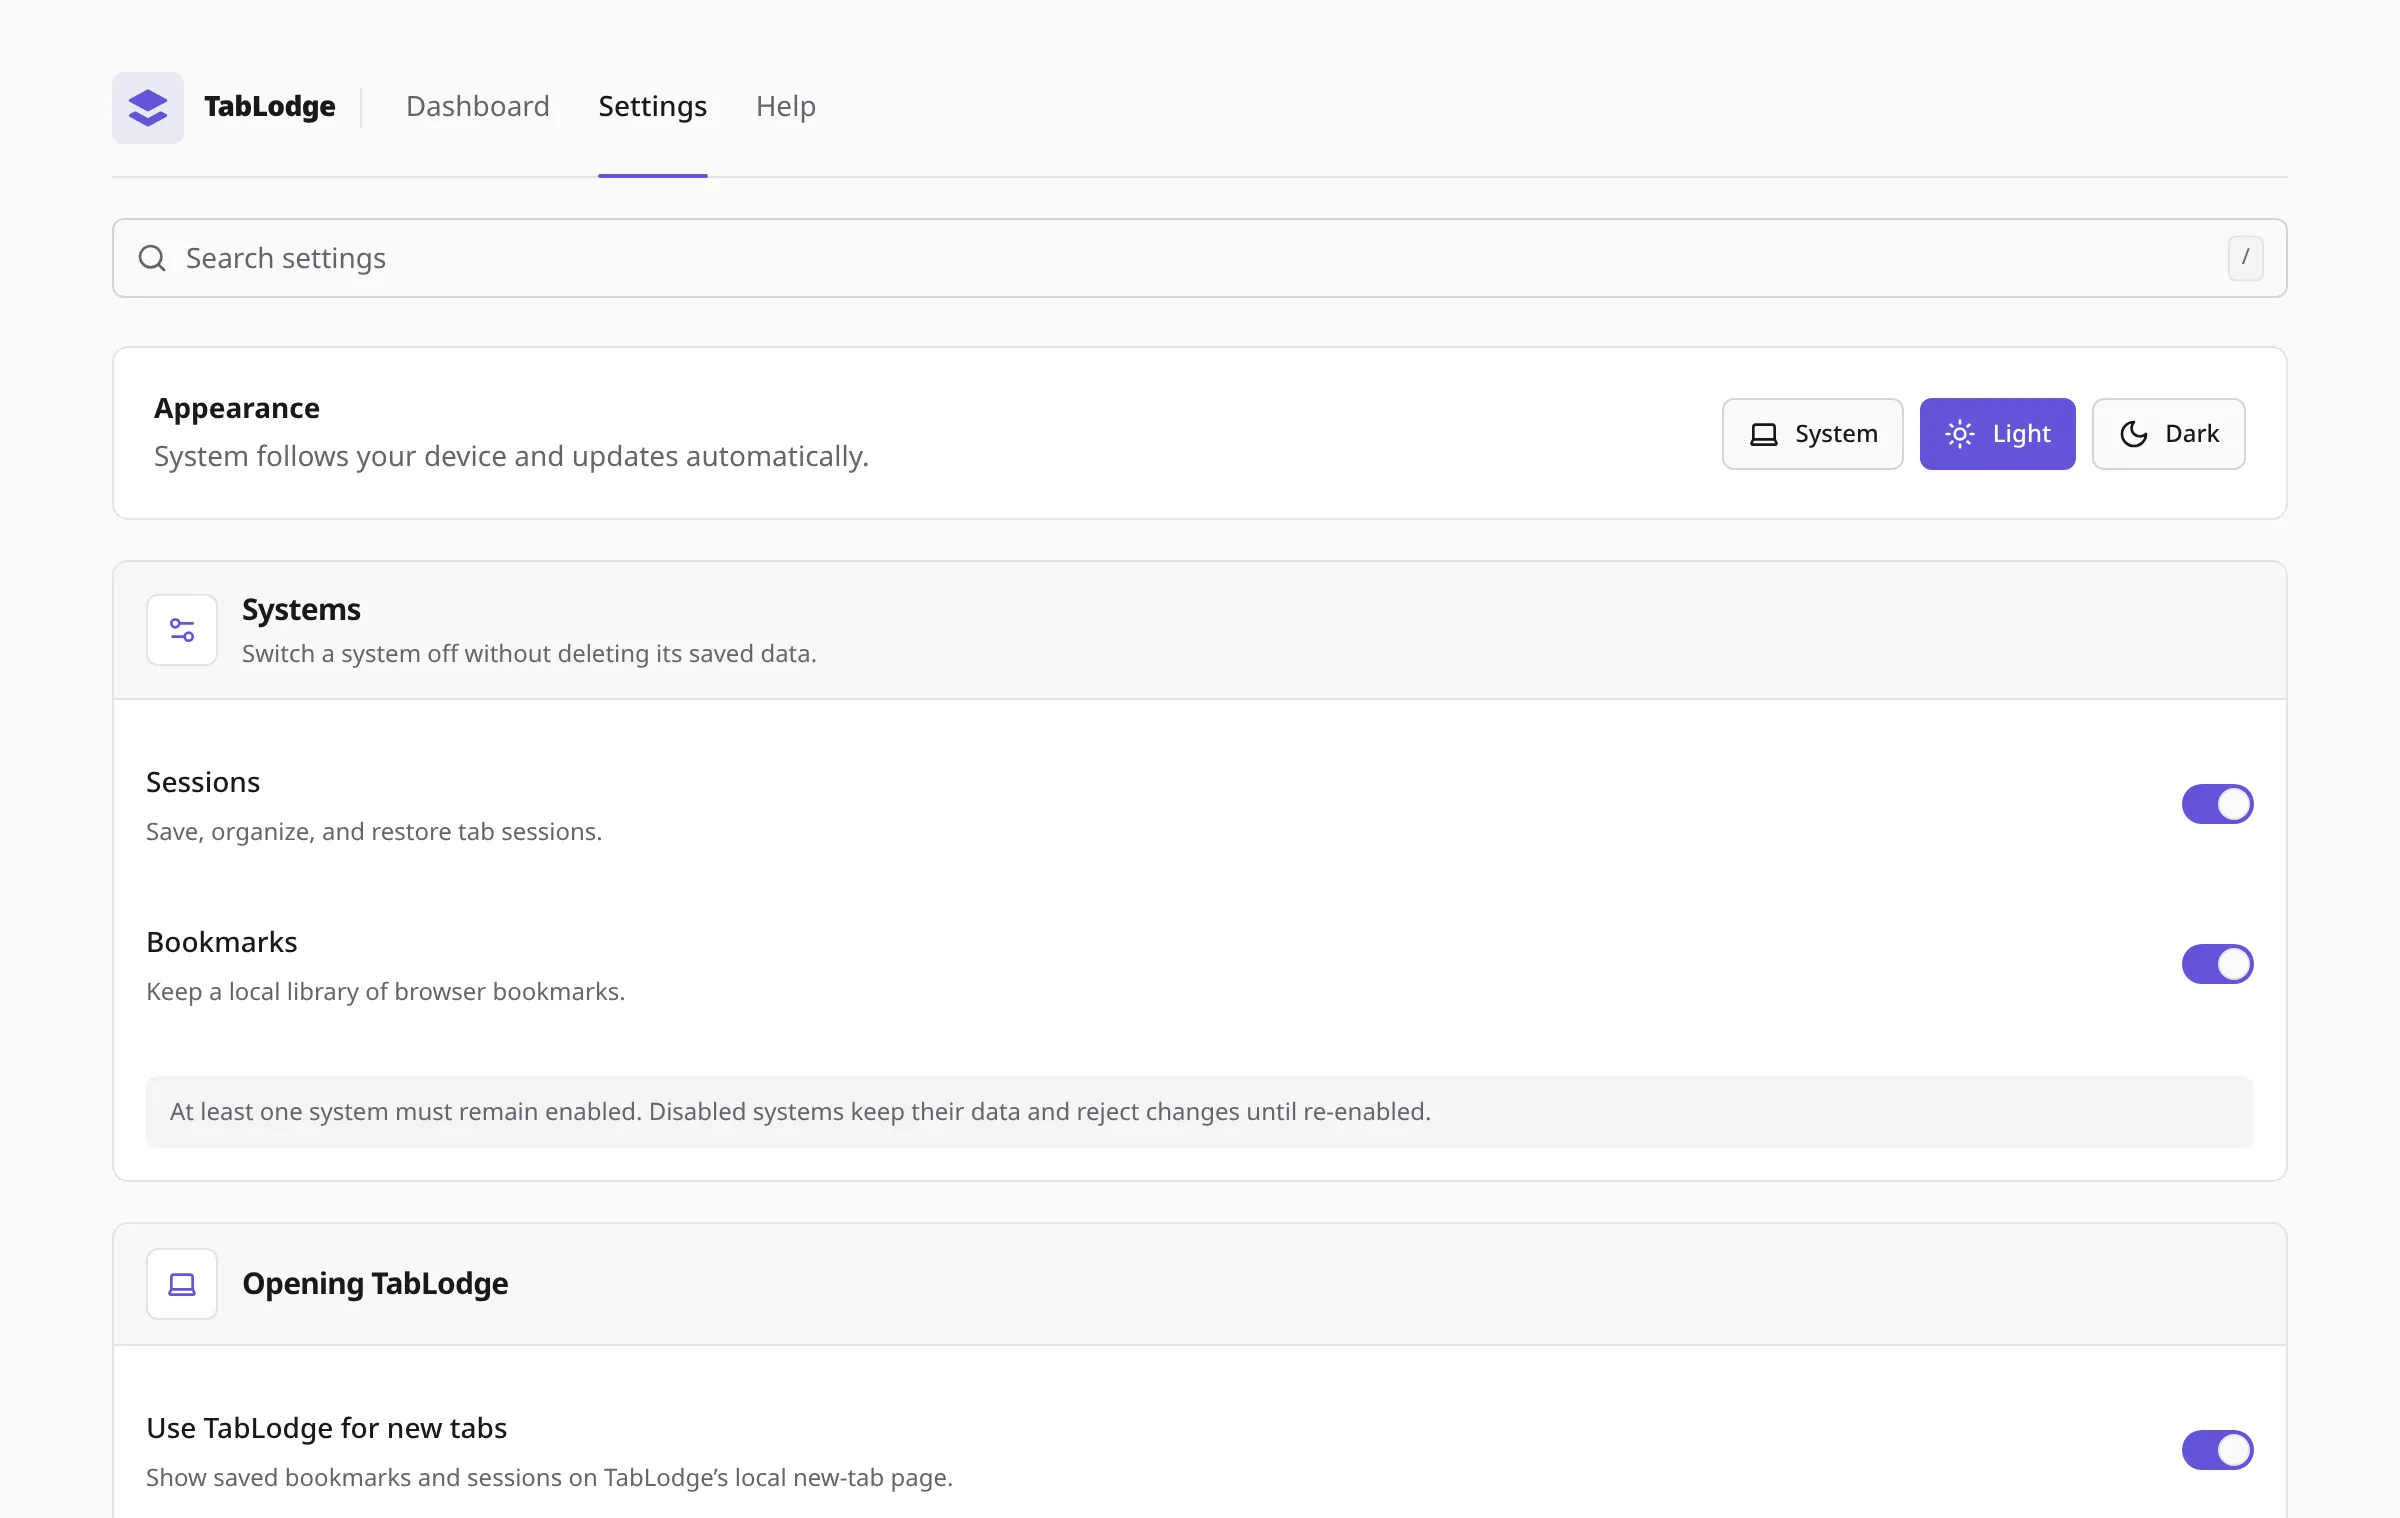
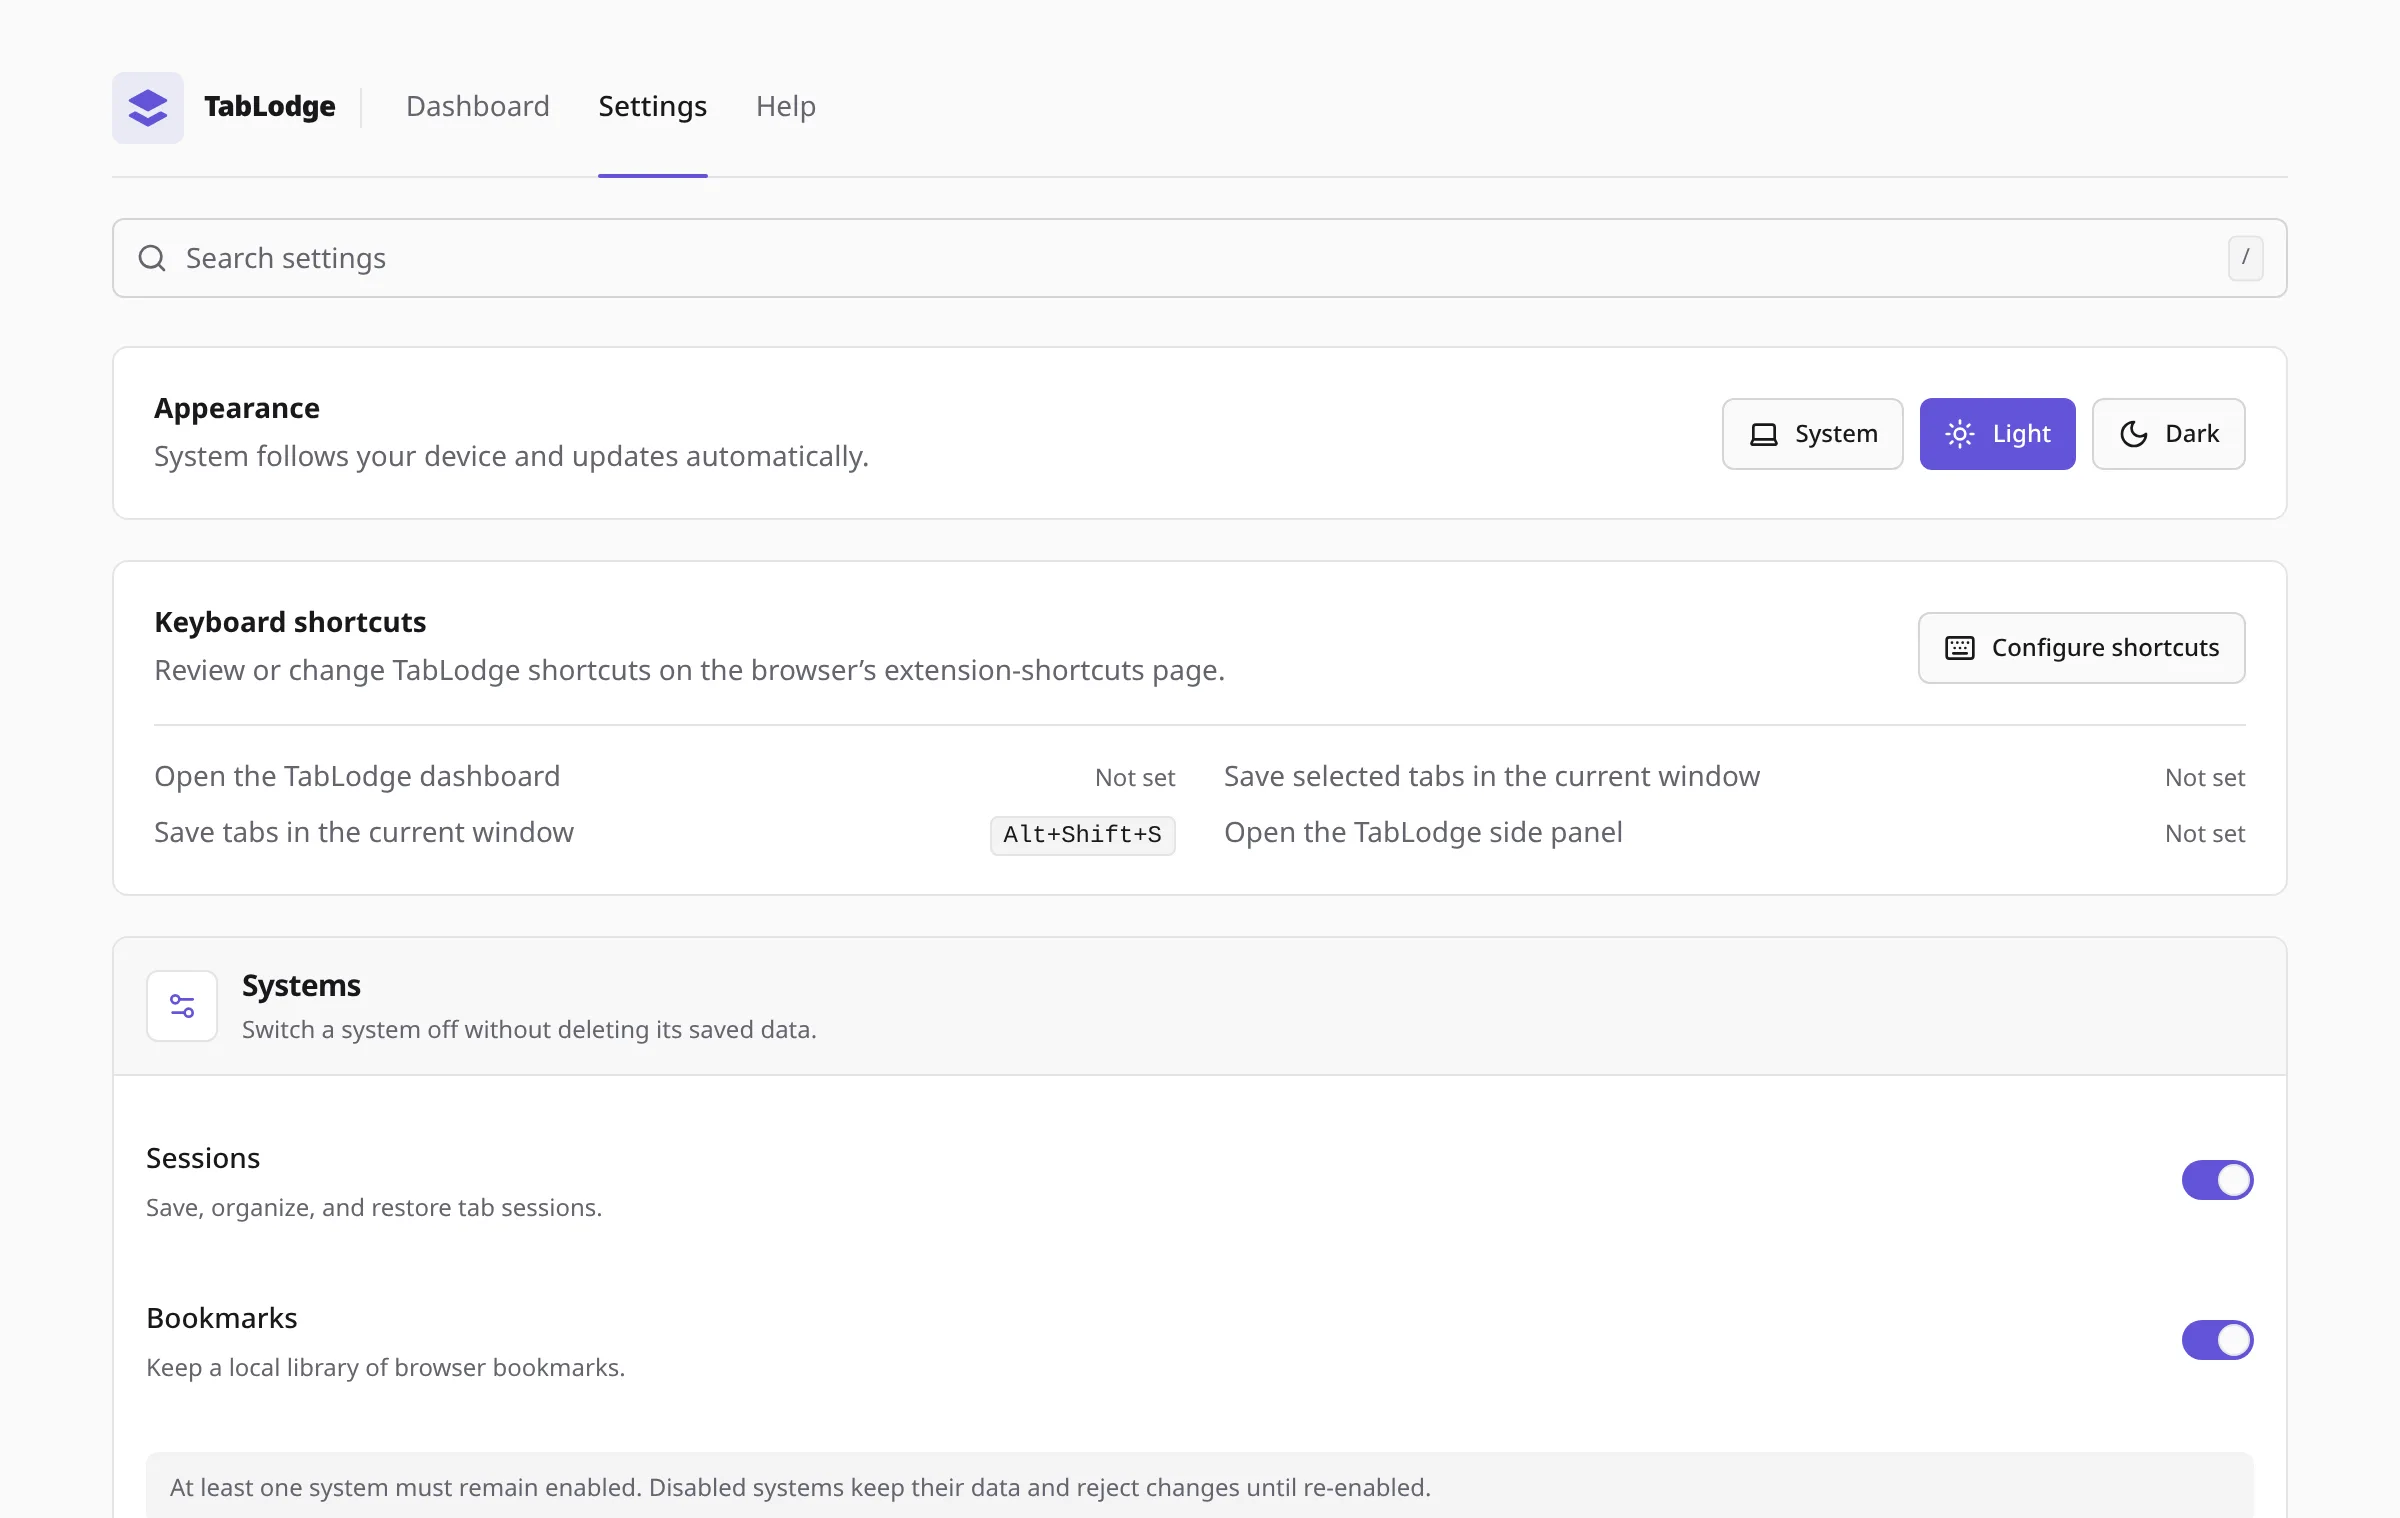
feat(settings): Keyboard shortcuts card under Appearance
Lists each TabLodge command with its current shortcut (read from
chrome.commands, refreshed when the page regains focus) and a Configure
shortcuts button to the browser's shortcuts page. README and the website's
Settings screenshot updated.

diff --git a/src/app/options.tsx b/src/app/options.tsx
@@ -12,6 +12,7 @@ import {
 	Moon,
 	RotateCcw,
 	Sun,
+	Keyboard,
 	Laptop,
 	Trash2,
 	Settings2,
@@ -59,6 +60,7 @@ import {
 	PageShell,
 	SectionCard,
 	StatusLine,
+	openShortcutsPage,
 	send,
 	useStatus,
 	useTabLodgeState,
@@ -735,6 +737,19 @@ const fieldSearchText = (field: SettingField) => [
 ];
 
 // The sections that are not generated from `settingsGroups`, with the extra words people may search for.
+const SHORTCUTS = {
+	title: 'Keyboard shortcuts',
+	help: `Review or change ${PROJECT.name} shortcuts on the browser’s extension-shortcuts page.`,
+	text: [
+		'Keyboard shortcuts',
+		'keys',
+		'hotkey',
+		'keybinding',
+		'Configure shortcuts',
+		'save window',
+		'side panel',
+	],
+};
 const APPEARANCE = {
 	title: 'Appearance',
 	help: 'System follows your device and updates automatically.',
@@ -1164,6 +1179,7 @@ function Options() {
 		(searching || !rowDisabled(field));
 	const hl = (text: string) => <Highlight text={text} query={query} />;
 	const showAppearance = matchesQuery(query, APPEARANCE.text);
+	const showShortcuts = matchesQuery(query, SHORTCUTS.text);
 	const systemRows = pick(SYSTEMS.title, SYSTEM_ROWS, (row) => [
 		row.label,
 		row.help,
@@ -1353,6 +1369,7 @@ function Options() {
 	]);
 	const matchCount =
 		Number(showAppearance) +
+		Number(showShortcuts) +
 		systemRows.length +
 		visibleGroups.reduce((sum, entry) => sum + entry.fields.length, 0) +
 		(searching &&
@@ -1502,6 +1519,12 @@ function Options() {
 								))}
 							</div>
 						</section>
+					)}
+					{showShortcuts && (
+						<ShortcutsCard
+							title={hl(SHORTCUTS.title)}
+							help={hl(SHORTCUTS.help)}
+						/>
 					)}
 
 					{systemRows.length > 0 && (
@@ -2157,6 +2180,87 @@ function Highlight({text, query}: {text: string; query: string}) {
 				),
 			)}
 		</>
+	);
+}
+
+const SHORTCUTS_URL = 'chrome://extensions/shortcuts';
+
+/**
+The current shortcut for each command (read with chrome.commands), and a button to the browser's page that changes them.
+*/
+function ShortcutsCard({title, help}: {title: ReactNode; help: ReactNode}) {
+	const [commands, setCommands] = useState<chrome.commands.Command[]>([]);
+	const [failed, setFailed] = useState(false);
+	useEffect(() => {
+		let alive = true;
+		const read = () => {
+			void chrome.commands
+				?.getAll?.()
+				.then((all) => {
+					if (alive) {
+						setCommands(all.filter((command) => command.description));
+					}
+				})
+				.catch(() => {});
+		};
+
+		read();
+		// Shortcuts are changed on another page; pick up the change when the user comes back.
+		globalThis.addEventListener('focus', read);
+		return () => {
+			alive = false;
+			globalThis.removeEventListener('focus', read);
+		};
+	}, []);
+
+	return (
+		<section className="rounded-lg border border-border bg-card p-5">
+			<div className="flex flex-col justify-between gap-5 sm:flex-row sm:items-center">
+				<div>
+					<h2 className="font-semibold">{title}</h2>
+					<p className="mt-1 text-sm text-muted-foreground">{help}</p>
+				</div>
+				<Button
+					type="button"
+					variant="outline"
+					size="sm"
+					className="shrink-0"
+					onClick={async () => setFailed(!(await openShortcutsPage()))}
+				>
+					<Keyboard className="h-4 w-4" />
+					Configure shortcuts
+				</Button>
+			</div>
+			{failed && (
+				<p role="alert" className="mt-2 text-xs text-muted-foreground">
+					Your browser did not open it. Paste <code>{SHORTCUTS_URL}</code> into
+					the address bar.
+				</p>
+			)}
+			{commands.length > 0 && (
+				<dl className="mt-4 grid gap-x-6 gap-y-2 border-t border-border pt-4 text-sm sm:grid-cols-2">
+					{commands.map((command) => (
+						<div
+							key={command.name}
+							className="flex min-w-0 items-center justify-between gap-3"
+						>
+							<dt className="min-w-0 truncate text-muted-foreground">
+								{command.description}
+							</dt>
+							<dd className="shrink-0">
+								{command.shortcut ? (
+									<kbd className="rounded border border-border bg-muted px-1.5 py-0.5 font-mono text-xs">
+										{command.shortcut}
+									</kbd>
+								) : (
+									<span className="text-xs text-muted-foreground">Not set</span>
+								)}
+							</dd>
+						</div>
+					))}
+				</dl>
+			)}
+		</section>
 	);
 }
 

diff --git a/README.md b/README.md
@@ -85,7 +85,7 @@ Then click the reload button (↻) on TabLodge's card.
 
 - Open a new tab to see the dashboard, or click the toolbar icon for the quick popup.
 - Open the side panel with the "Open side panel" shortcut or the toolbar icon's right-click menu, or make the toolbar icon open it (Settings > Side Panel > Toolbar icon opens). In Brave, right-click the sidebar and add TabLodge, or pick it from the sidebar's extensions panel.
-- Change keyboard shortcuts at `chrome://extensions/shortcuts` (or your browser's equivalent).
+- See your keyboard shortcuts in **Settings › Keyboard shortcuts**, and change them with **Configure shortcuts** (it opens `chrome://extensions/shortcuts` or your browser's equivalent).
 
 ## Development
 
